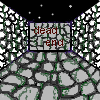
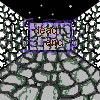
1.04 Alpha
built a runnable draw view

Changed region(s): [[0.18, 0.18, 0.78, 0.54], [0.78, 0.27, 0.84, 0.39], [0.18, 0.36, 0.24, 0.42]]

diff --git a/valēbat/src/DrawView.java b/valēbat/src/DrawView.java
@@ -2,23 +2,136 @@ import java.awt.Graphics2D;
 import java.awt.image.BufferedImage;
 import java.io.FileNotFoundException;
 import javax.imageio.ImageIO;
+import java.io.File;
+import java.net.URL;
+import java.awt.Toolkit;
+import java.net.MalformedURLException;
+
 
 public class DrawView {
 	Graphics2D g2d;
-	public DrawView(Graphics2D g2d){
+	int boardSizeY;
+	int boardSizeX;
+	URL url;
+	BufferedImage currentView;
+	public DrawView(Graphics2D g2d,int boardSizeX, int boardSizeY){
 		this.g2d = g2d;
-		
+		this.boardSizeY = boardSizeY;
+		this.boardSizeX = boardSizeX;
+		url = null;
+		currentView = null;
 	}
-	/*public void makeView(){
-		BufferedImage curView = null;
-		try{
-			curView = ImageIO.read("../resource/CloseRightTurn.png");
-		}catch(FileNotFoundException e){
-			System.err.println("Image file x wan't found");
+	public void makeView(int pos){
+		switch(pos){
+			//add try{ catch(MalformedURLException ex){ }}
+			case 0:
+				try{
+					url = new URL("../resource/");			
+				}catch(MalformedURLException ex){
+					System.err.println("MalformedURLException");
+				}
+				currentView = (BufferedImage) Toolkit.getDefaultToolkit().getImage(url);
+				break;
+			case 1:
+				try{
+					url = new URL("../resource/");			
+				}catch(MalformedURLException ex){
+					System.err.println("MalformedURLException");
+				}
+				currentView = (BufferedImage) Toolkit.getDefaultToolkit().getImage(url);
+				break;
+			case 2:
+				try{
+					url = new URL("../resource/");			
+				}catch(MalformedURLException ex){
+					System.err.println("MalformedURLException");
+				}
+				currentView = (BufferedImage) Toolkit.getDefaultToolkit().getImage(url);
+				break;
+			case 3:
+				try{
+					url = new URL("../resource/");			
+				}catch(MalformedURLException ex){
+					System.err.println("MalformedURLException");
+				}
+				currentView = (BufferedImage) Toolkit.getDefaultToolkit().getImage(url);
+				break;
+			case 4:
+				try{
+					url = new URL("../resource/");			
+				}catch(MalformedURLException ex){
+					System.err.println("MalformedURLException");
+				}
+				currentView = (BufferedImage) Toolkit.getDefaultToolkit().getImage(url);
+				break;
+			case 5:
+				try{
+					url = new URL("../resource/");			
+				}catch(MalformedURLException ex){
+					System.err.println("MalformedURLException");
+				}
+				currentView = (BufferedImage) Toolkit.getDefaultToolkit().getImage(url);
+				break;
+			case 6:
+				try{
+					url = new URL("../resource/");			
+				}catch(MalformedURLException ex){
+					System.err.println("MalformedURLException");
+				}
+				currentView = (BufferedImage) Toolkit.getDefaultToolkit().getImage(url);
+				break;
+			case 7:
+				try{
+					url = new URL("../resource/");			
+				}catch(MalformedURLException ex){
+					System.err.println("MalformedURLException");
+				}
+				currentView = (BufferedImage) Toolkit.getDefaultToolkit().getImage(url);
+				break;
+			case 8:
+				try{
+					url = new URL("../resource/");			
+				}catch(MalformedURLException ex){
+					System.err.println("MalformedURLException");
+				}
+				currentView = (BufferedImage) Toolkit.getDefaultToolkit().getImage(url);
+				break;
+			case 9:
+				try{
+					url = new URL("../resource/");			
+				}catch(MalformedURLException ex){
+					System.err.println("MalformedURLException");
+				}
+				currentView = (BufferedImage) Toolkit.getDefaultToolkit().getImage(url);
+				break;
+			case 10:
+				try{
+					url = new URL("../resource/");			
+				}catch(MalformedURLException ex){
+					System.err.println("MalformedURLException");
+				}
+				currentView = (BufferedImage) Toolkit.getDefaultToolkit().getImage(url);
+				break;
+			case 11:
+				try{
+					url = new URL("../resource/");			
+				}catch(MalformedURLException ex){
+					System.err.println("MalformedURLException");
+				}
+				currentView = (BufferedImage) Toolkit.getDefaultToolkit().getImage(url);
+				break;
+			case 12:
+				try{
+					url = new URL("../resource/");			
+				}catch(MalformedURLException ex){
+					System.err.println("MalformedURLException");
+				}
+				currentView = (BufferedImage) Toolkit.getDefaultToolkit().getImage(url);
+				break;
 		}
-		g2d.draw(curView);
+		g2d = currentView.createGraphics();
 	}
-	*/
+	
 	public Graphics2D getView(){
 		return g2d;
 	}

diff --git a/valēbat/src/Game.java b/valēbat/src/Game.java
@@ -29,12 +29,8 @@ public class Game extends JPanel implements Runnable,KeyListener{
 	}
 	public void printBoard(MazeTile[][] b,int height,int width){
 	int space = 0;
-		for (int u = 0; u <= height; u++) {
-				System.out.print("##");
-		}
-		System.out.println("#");
+
 		for (int c = 0; c < width; c++) {
-			System.out.print("# ");
 			for (int u = 0; u < height; u++) {
 				if (b[c][u].getThere()) {
 					if (b[c][u].getIsPlayer()) {
@@ -47,35 +43,23 @@ public class Game extends JPanel implements Runnable,KeyListener{
 					space++;
 				} else if (b[c][u].getIsAdjacent()){
 					System.out.print("# ");
-						//--------------------------NECESSARY-------------------------------------
-						//board[c][u].setWall();					
-						//------------------------------------------------------------------------
-				} else {
-					System.out.print("# ");
-						//---------------------------NECESSARY-------------------------------------
-						//board[c][u].setWall();
-						//------------------------------------------------------------------------
-				}
+				} 
 			}
-			System.out.println("#");
 		}
-		for (int u = 0; u <= height; u++) {
-			System.out.print("##");
-		}
-	System.out.println("#");
+
 	System.out.println();
 	System.out.println(space);
 //------------------------------------------------------------------------
 	}
 
 	private String direction(MazeTile[][] b,int x,int y){
-		if(!b[y-1][x].getWall()){
+		if(!b[x-1][y].getWall()){
 			return "north";
-		}else if(!b[y][x-1].getWall()){
+		}else if(!b[x][y-1].getWall()){
 			return "west";
-		}else if(!b[y][x+1].getWall()){
+		}else if(!b[x][y+1].getWall()){
 			return "east";
-		}else if(!b[y+1][x].getWall()){
+		}else if(!b[x+1][y].getWall()){
 			return "south";
 		}else{
 			return "i fucked up somehow";
@@ -101,7 +85,7 @@ public class Game extends JPanel implements Runnable,KeyListener{
 	}
 	private void render(){ //used to render the graphics
 		Graphics2D g2d = (Graphics2D) getGraphics();
-		DrawView View = new DrawView(g2d);
+		DrawView View = new DrawView(g2d,boardSizeX,boardSizeY);
 		g2d.setColor(Color.BLUE);
 		g2d.fillRect(50, 50, 100, 100);
 		g2d.dispose();

diff --git a/valēbat/src/DrawViewTestMain.java b/valēbat/src/DrawViewTestMain.java
@@ -1,0 +1,5 @@
+public class DrawViewTestMain{
+	public static void main(String[]args){
+
+	}
+}
